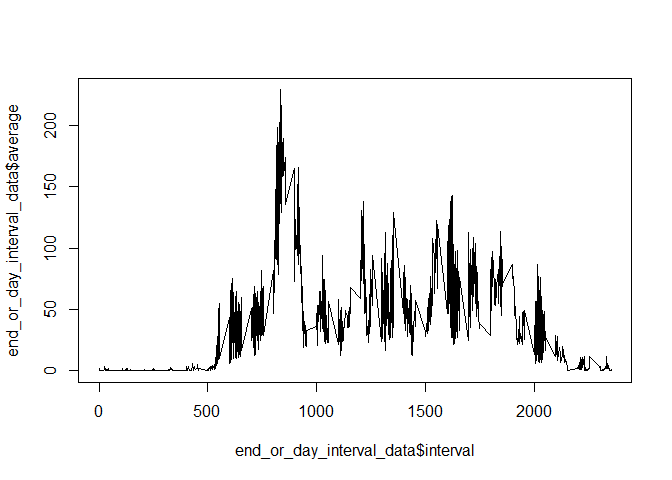
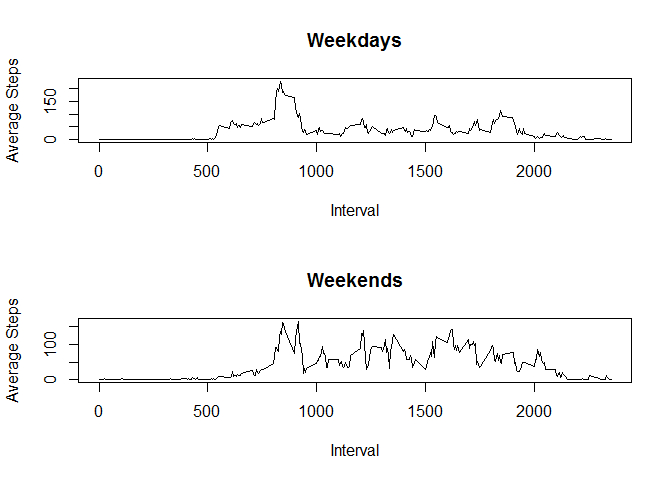
Removed test graph

diff --git a/PA1.html b/PA1.html
@@ -176,12 +176,8 @@ summary(day_or_end_data)</code></pre>
 ## </code></pre>
 <pre class="r"><code>end_or_day_interval_data &lt;- ddply(day_or_end_data, .(interval, value), summarize, average = mean(steps))
 
-
-plot(end_or_day_interval_data$interval, end_or_day_interval_data$average, col=end_or_day_interval_data$value, type = &quot;l&quot;)</code></pre>
[1 lines of base64/hex data omitted]
-<pre class="r"><code>weekday_data = subset(end_or_day_interval_data, end_or_day_interval_data$value == &quot;Weekday&quot;)
+weekday_data = subset(end_or_day_interval_data, end_or_day_interval_data$value == &quot;Weekday&quot;)
 weekend_data = subset(end_or_day_interval_data, end_or_day_interval_data$value == &quot;Weekend&quot;)
-
 
 par(mfrow = c(2,1))
 #upper plot

diff --git a/PA1.md b/PA1.md
@@ -183,16 +183,8 @@ summary(day_or_end_data)
 ```r
 end_or_day_interval_data <- ddply(day_or_end_data, .(interval, value), summarize, average = mean(steps))
 
-
-plot(end_or_day_interval_data$interval, end_or_day_interval_data$average, col=end_or_day_interval_data$value, type = "l")
-```
-
-![plot of chunk unnamed-chunk-5](./PA1_files/figure-html/unnamed-chunk-51.png) 
-
-```r
 weekday_data = subset(end_or_day_interval_data, end_or_day_interval_data$value == "Weekday")
 weekend_data = subset(end_or_day_interval_data, end_or_day_interval_data$value == "Weekend")
-
 
 par(mfrow = c(2,1))
 #upper plot
@@ -201,5 +193,5 @@ plot(weekday_data$interval, weekday_data$average, type="l", xlab="Interval", yla
 plot(weekend_data$interval, weekend_data$average, type="l", xlab="Interval", ylab="Average Steps", main="Weekends")
 ```
 
-![plot of chunk unnamed-chunk-5](./PA1_files/figure-html/unnamed-chunk-52.png) 
+![plot of chunk unnamed-chunk-5](./PA1_files/figure-html/unnamed-chunk-5.png) 
 
